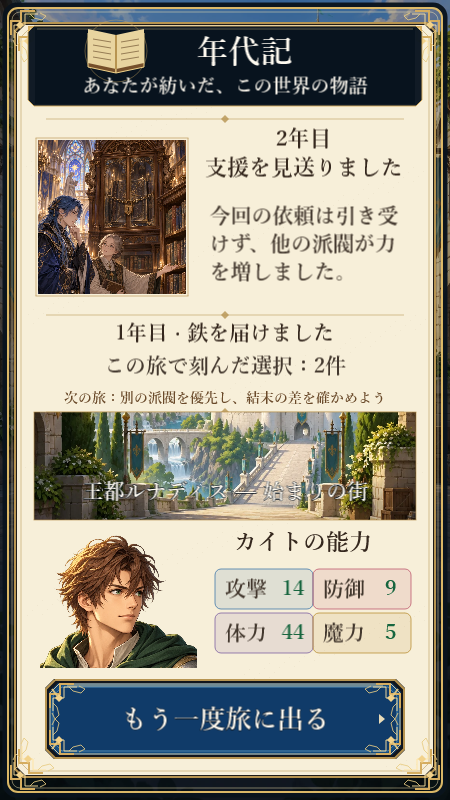
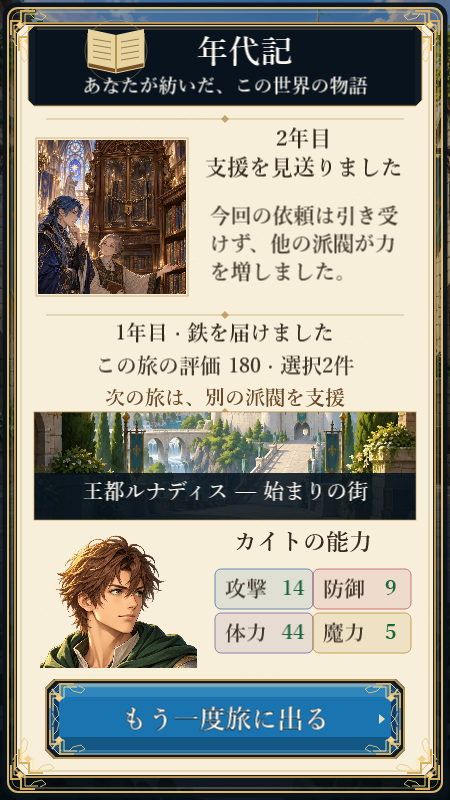
fix(karma): polish home navigation gestures and request readability

Changed region(s): [[0.1244, 0.8438, 0.8711, 0.9375], [0.0622, 0.5938, 0.9333, 0.6562], [0.1556, 0.4375, 0.7778, 0.5312]]

diff --git a/games/karma-quest/e2e/game.spec.ts b/games/karma-quest/e2e/game.spec.ts
@@ -948,6 +948,7 @@ test("portrait choice keeps the approved visual mock skeleton", async ({ page })
     animations: "disabled",
     maxDiffPixelRatio: 0.005,
   });
+  await page.locator("canvas").screenshot({ path: "../../docs/review/karma-choice-audit-current.png" });
 });
 
 async function useNativePortrait(page: Page) {
@@ -1893,6 +1894,22 @@ test("requester portraits follow every request in home and rotated dialogue", as
       Reflect.set(scene, "phase", "title"); Reflect.set(scene, "homeRequest", request);
     }, request);
     await expect.poll(portraits).toEqual([`kq-dialogue-${request.faction}-${request.faction === "warrior" ? "v3" : "v1"}`]);
+    const readHomeCopy = () => page.evaluate(() => {
+      const scene = window.__qaGame.scene.getScene("GameScene");
+      const root = scene.children.list.find(node => node.getData("refreshRequest")) as Phaser.GameObjects.Container;
+      const label = root.getByName("home-request-body") as Phaser.GameObjects.Text;
+      const b = label.getBounds();
+      return { text: label.text, lines: label.getWrappedText(), top: b.top, bottom: b.bottom, left: b.left, right: b.right };
+    });
+    await expect.poll(async () => (await readHomeCopy()).text.replace(/\n/g, "")).toBe(request.text);
+    const homeCopy = await readHomeCopy();
+    expect(homeCopy.lines.length).toBeLessThanOrEqual(2);
+    expect(homeCopy.lines).not.toContain("…");
+    expect(homeCopy.top).toBeGreaterThan(668);
+    expect(homeCopy.bottom).toBeLessThan(720);
+    expect(homeCopy.left).toBeGreaterThan(110);
+    expect(homeCopy.right).toBeLessThan(412);
+
     await page.setViewportSize({ width: 800, height: 360 });
     await expect.poll(() => page.locator("canvas").evaluate(node => (node as HTMLCanvasElement).width)).toBe(800);
     await expect.poll(portraits).toEqual([`kq-dialogue-${request.faction}-${request.faction === "warrior" ? "v3" : "v1"}`]);
@@ -2579,4 +2596,65 @@ test("landscape chronicle shows run evaluation without changing saved totals", {
   await page.locator("canvas").screenshot({ path: "../../docs/review/karma-portrait-run-evaluation.png" });
   await page.setViewportSize({ width: 806, height: 456 });
   await expect.poll(async () => (await read())?.text).toContain("1234.5万");
+});
+
+test("home navigation confirms on release and cancels interrupted gestures", { tag: "@webkit-regression" }, async ({ page }) => {
+  const state = () => page.evaluate(() => {
+    const scene = window.__qaGame.scene.getScene("GameScene");
+    return { phase: Reflect.get(scene, "phase"), information: Reflect.get(scene, "homeInformation")?.title ?? null, raid: !!Reflect.get(scene, "raidPanel") };
+  });
+  const idle = { phase: "title", information: null, raid: false };
+  const emit = (name: string, event: string, id = 101) => page.evaluate(({ name, event, id }) => {
+    let found: Phaser.GameObjects.GameObject | undefined;
+    const visit = (node: Phaser.GameObjects.GameObject) => {
+      if (Reflect.get(node, "visible") === false) return;
+      if (node.name === name) found = node;
+      if (node.type === "Container") (node as Phaser.GameObjects.Container).list.forEach(visit);
+    };
+    window.__qaGame.scene.getScene("GameScene").children.list.forEach(visit);
+    if (!found) throw new Error(`Missing navigation ${name}`);
+    found.emit(event, { id });
+  }, { name, event, id });
+  for (const wide of [false, true]) {
+    await page.setViewportSize(wide ? { width: 806, height: 456 } : { width: 456, height: 806 });
+    await page.evaluate(() => new Promise<void>(resolve => requestAnimationFrame(() => requestAnimationFrame(() => resolve()))));
+    const names = wide
+      ? ["案内", "ワールド", "仲間", "図鑑", "持ち物", "リーグ", "ショップ", "王都"].map(label => `home-nav-wide:${label}`)
+      : [...Array.from({ length: 5 }, (_, i) => `home-nav:${i}`), ...Array.from({ length: 5 }, (_, i) => `home-rail:${i}`)];
+    for (const name of names) {
+      await emit(name, "pointerdown");
+      expect(await state()).toEqual(idle);
+      await emit(name, "pointerup", 102);
+      expect(await state()).toEqual(idle);
+      await emit(name, "pointerout");
+      await emit(name, "pointerup");
+      expect(await state()).toEqual(idle);
+    }
+    const target = wide ? "home-nav-wide:仲間" : "home-nav:2";
+    for (const interruption of ["blur", "hidden", "resize"]) {
+      await emit(target, "pointerdown");
+      if (interruption === "resize") {
+        await page.setViewportSize(wide ? { width: 808, height: 456 } : { width: 458, height: 806 });
+        await page.evaluate(() => new Promise<void>(resolve => requestAnimationFrame(() => requestAnimationFrame(() => resolve()))));
+      } else {
+        await page.evaluate(event => window.__qaGame.scene.getScene("GameScene").game.events.emit(event), interruption);
+      }
+      await emit(target, "pointerup");
+      expect(await state()).toEqual(idle);
+    }
+    // Real browser input: dragging away must not open a panel.
+    const box = (await page.locator("canvas").boundingBox())!;
+    const x = wide ? 238 : 225, y = wide ? 348 : 758;
+    await page.mouse.move(box.x + x * box.width / (wide ? 800 : 450), box.y + y * box.height / (wide ? 450 : 800));
+    await page.mouse.down();
+    expect(await state()).toEqual(idle);
+    await page.mouse.move(box.x + box.width / 2, box.y + box.height / 2);
+    await page.mouse.up();
+    expect(await state()).toEqual(idle);
+    await tapPoint(page, x, y);
+    await expect.poll(state).toEqual({ ...idle, information: "カイトの能力" });
+    await page.locator("canvas").screenshot({ path: `../../docs/review/karma-navigation-release-${wide ? "landscape" : "portrait"}.png` });
+    await tapPoint(page, wide ? 400 : 225, wide ? 385 : 551);
+    await expect.poll(state).toEqual(idle);
+  }
 });

diff --git a/games/karma-quest/src/conceptArt.ts b/games/karma-quest/src/conceptArt.ts
@@ -689,6 +689,16 @@ function leagueTable(scene: Runtime, modal: Phaser.GameObjects.Container, portra
   return root;
 }
 
+// Preserve the exact request wording while keeping trailing punctuation
+// with its sentence. Only known copy gets an intentional phrase break.
+const HOME_REQUEST_LINES: Record<string, string> = {
+  "鉄が足りなくて剣が作れない…": "鉄が足りなくて\n剣が作れない…",
+  "魔物が恐ろしくて行商できない…": "魔物が恐ろしくて\n行商できない…",
+  "関所の通行料をまけてほしい…": "関所の通行料を\nまけてほしい…",
+  "金が足りなくて酒が飲めないぜ…": "金が足りなくて\n酒が飲めないぜ…",
+  "魔法の研究に魔石がほしいのです…": "魔法の研究に\n魔石がほしいのです…",
+};
+
 function buildTitle(scene: Runtime): Phaser.GameObjects.Container {
   const root = scene.add.container(0, 0).setDepth(6100).setVisible(false);
   cover(scene, root, HOME_BG_KEY);
@@ -756,7 +766,7 @@ function buildTitle(scene: Runtime): Phaser.GameObjects.Container {
         ink.lineBetween(39 + side * 3, y + dy, 39 + side * 10, y + dy - 2);
     }
     if (index === 2) { ink.fillCircle(39, y - 8, 6); ink.fillRoundedRect(31, y, 16, 13, 5); ink.fillCircle(26, y - 5, 4); ink.fillCircle(52, y - 5, 4); }
-    if (index === 3) { ink.strokeRoundedRect(26, y - 5, 26, 21, 3); ink.strokeRoundedRect(33, y - 12, 12, 10, 3); }
+    // The unavailable inventory uses its status in the icon slot.
     root.add(ink.setX(8));
     text(scene, root, 47, y + 25, label, 20, "#fff3ce", "800").setStroke("#091420", 0);
   }
@@ -770,7 +780,7 @@ function buildTitle(scene: Runtime): Phaser.GameObjects.Container {
   requestCard(scene, root, 225, 682, 414, 92);
   requesterPortrait(scene, root, 31, 648, 72, 66, true);
   const homeRequestTitle = text(scene, root, 260, 655, "", 20, "#3c2a1e", "900").setName("home-request-title");
-  const homeRequestBody = text(scene, root, 263, 692, "", 21, "#43382e", "700", 276).setName("home-request-body");
+  const homeRequestBody = text(scene, root, 263, 694, "", 21, "#43382e", "700", 276).setName("home-request-body");
   root.setData("refreshRequest", () => {
     totalEvaluation.setText(`累計評価 ${scoreDisplay(loadTotalEvaluation())}`);
     bestStage.setText(`最高到達 ${loadBestStage()}年`);
@@ -784,7 +794,7 @@ function buildTitle(scene: Runtime): Phaser.GameObjects.Container {
     homeRequestBody
       .setFontSize(requestCopy.length > 44 ? 15 : requestCopy.length > 30 ? 18 : 21)
       .setLineSpacing(requestCopy.length > 30 ? 2 : 5)
-      .setText(requestCopy);
+      .setText(HOME_REQUEST_LINES[requestCopy] ?? requestCopy);
   });
   text(scene, root, 418, 682, "›", 34, "#8a6726", "900");
   const nav = scene.add.graphics();
@@ -812,7 +822,7 @@ function buildTitle(scene: Runtime): Phaser.GameObjects.Container {
     icons.fillCircle(225 + dx, dx === 0 ? 738 : 742, dx === 0 ? 5 : 4);
     icons.fillRoundedRect(220 + dx, dx === 0 ? 746 : 750, 10, dx === 0 ? 14 : 10, 3);
   }
-  icons.strokeRoundedRect(387, 741, 26, 20, 3).strokeRoundedRect(394, 733, 12, 12, 4);
+  // The unavailable shop uses its status in the icon slot.
   root.add(icons);
   // Availability is visible before opening the explanatory modal.
   for (const [x, y] of [[47, 505], [400, 746]] as const) {
@@ -867,9 +877,8 @@ function buildTitle(scene: Runtime): Phaser.GameObjects.Container {
   ];
   const addRoute = (x: number, y: number, w: number, h: number, name: string, action: () => void, available = true) => {
     const hit = scene.add.zone(x, y, w, h).setName(name).setInteractive({ useHandCursor: available });
-    // Navigation has no destructive action. Activate on pointerdown so a
-    // resize/render frame between touchstart and touchend cannot drop the tap.
-    hit.on("pointerdown", action);
+    // Match primary actions: release to confirm; dragging or interruption cancels.
+    ownedTap(scene, hit, action);
     root.add(hit);
   };
   routes.forEach((route, i) => addRoute(51 + i * 87, 758, 85, 68, `home-nav:${i}`, route, i !== 4));
@@ -1268,7 +1277,7 @@ function buildLandscapeHomeNavigation(scene: Runtime, root: Phaser.GameObjects.C
     text(scene, root, x, unavailable ? y - 7 : y, label, 20, "#fff3ce", "800").setStroke("#091420", 0);
     if (unavailable) text(scene, root, x, y + 11, "準備中", 11, "#d8c9ab", "700").setStroke("#091420", 0);
     const hit = scene.add.zone(x, y, 84, 56).setName(`home-nav-wide:${label}`).setInteractive({ useHandCursor: !unavailable });
-    hit.on("pointerdown", action);
+    ownedTap(scene, hit, action);
     root.add(hit);
   });
   root.bringToTop(raidModal);

diff --git a/docs/review/karma-flow-audit-2026-10-21.md b/docs/review/karma-flow-audit-2026-10-21.md
@@ -1,0 +1,32 @@
+# Karma Quest 画面・入力レビュー — 2026-10-21
+
+対象: PR #386後のローカル実装と今回のナビ入力修正。WebKitで新規取得した画面を目視し、既存画像比較と操作テストを併用した。6作品全体や実機の監査ではない。
+
+## 画面順の確認
+
+1. **王都ホーム：入力を修正。** 主要な進行情報と依頼カードを確認。ナビだけが押下直後に開くため、ドラッグや中断でキャンセルできなかった。縦10・横8項目を指離し確定へ統一。準備中表示の背後のアイコンを取り除き、依頼文末の記号だけの折返しも意味の切れ目で改行して修正。主要CTAの重なり・操作不能は今回の画像では見つからない。
+   ![王都ホーム](../../games/karma-quest/e2e/screenshots/portrait-title-approved.png)
+2. **依頼：確認範囲では良好。** 人物・依頼文・青赤の返答CTAを分離。返答の効果もボタン内で読める。
+   ![依頼](karma-choice-audit-current.png)
+3. **世界の反応：確認範囲では良好。** 年・結果・派閥変化・次へを識別でき、見出しはイラストに埋もれない。
+   ![世界の反応](karma-reaction-heading-portrait.png)
+4. **討伐：確認範囲では操作可能。** 勇者・能力値・声援CTAを識別。結果待ち中の画面で、戦闘全瞬間や演出品質の完全評価ではない。
+   ![討伐](../../games/karma-quest/e2e/screenshots/portrait-battle-current.png)
+5. **報告：確認範囲では良好。** 選択印、最大2件の案内、評価、送信を分離。画像比較用に状態を直接設定したため、この画像の0年は通常進行の証拠ではない。年の実表示は既存の年別テストで別途検査する。
+   ![報告](../../games/karma-quest/e2e/screenshots/portrait-report-current.png)
+6. **年代記：確認範囲では良好。** 評価・短いヒント・再出発CTAが枠内に収まり、今回の比較は基準変更なしで成功。
+   ![年代記](karma-chronicle-current.png)
+
+## 入力修正の確認
+
+縦横18項目について押下時には遷移しないこと、別の指で確定しないこと、領域外で解除することを検査。代表ナビでリサイズ・blur・hiddenの解除、実マウスのドラッグアウト、タッチによる情報表示と閉じる操作をChromium/WebKitで確認した。
+
+![縦ナビからの能力表示](karma-navigation-release-portrait.png)
+![横ナビからの能力表示](karma-navigation-release-landscape.png)
+
+## 限界と残項目
+
+- 画像比較の基準は既存の実装画面であり、原案モックとの完全一致を保証しない。
+- 物理iOS Safari / Android Chrome、外部Portalは未確認。RCの公開判定は保留。
+- スクリーンリーダー、キーボードのみの操作、OS文字拡大への対応をスクリーンショットから認定しない。
+- 全画面・全作品の「改善点ゼロ」とは判定しない。新機能や演出全面刷新は今回のRC修正に混ぜない。

diff --git a/docs/current/karma-quest/spec.md b/docs/current/karma-quest/spec.md
@@ -25,6 +25,8 @@
 - レイドのレベル・撃破数・HP・ダメージ・報酬も同じ省略表記を使用する。報酬ボタンと獲得通知を含む表示だけに適用し、戦闘計算・加算額・保存値は整数のまま維持する。
 
 ## UI契約
+縦ホームの依頼文は既存の文言・文字サイズを保ち、長めの定型文は意味の切れ目で2行に分ける。末尾の省略記号だけを独立行にしない。準備中の持ち物・ショップはアイコン位置に状態を示し、アイコンを下に重ねない。
+ホームの縦ナビ・サイドメニュー・横ナビは、押した指を離した時に確定する。領域外への移動、画面サイズ変更、フォーカス喪失、非表示化で押下待ちを解除する。準備中項目の説明表示や既存の移動先は維持する。
 日本語の縦横年代記は「この旅の評価 N · 選択M件」を表示する。評価は累計保存値ではなく今回の旅で獲得した評価を使い、大きな値は既存の万・億・兆表記へ整形する。表示によって評価や保存値を変更しない。
 縦ホームの現在位置「王都」はWebKitでも青い選択面と金色の下線で示す。既存ナビのアイコン・文字・タップ範囲と準備中項目の扱いは維持する。
 選択結果の年表示はWebKitでも濃色下地を持ち、見出し「選択の結果」は明るい金色の面に濃色文字で表示する。縦横とも背景の明るさに埋もれない表示を保つ。

diff --git a/docs/current/karma-quest/design.md b/docs/current/karma-quest/design.md
@@ -77,3 +77,7 @@ WebKitは回転時の描画消失を避けるCanvas fallback、それ以外はAU
 ## 確認範囲・保留
 現行コードと既存テストを照合した仕様の初版。本作の全機能を今回再プレイしたという意味ではない。
 実機・外部Portal・公開の合否は [リリース資料](../../../RELEASE-CANDIDATE.md) と個別QA記録を参照する。
+
+ホームのbuildTitle.addRouteと横ホームのナビの項目はownedTapを使い、pointerdownで即時実行しない。縦10項目・横8項目の押下中／別ポインター／領域外解除、リサイズ・blur・hidden、実ブラウザのドラッグとタップをE2E検査する。
+
+HOME_REQUEST_LINESは既知の依頼文5件の表示改行のみを保持する。原文や任意の未知文を置き換えず、縦home-request-bodyへ適用する。本文中心y=694。8依頼の原文一致・2行以内・記号単独行なし・カード内境界をE2E検査する。準備中の2項目は状態表示の下に鞄アイコンを描画しない。
